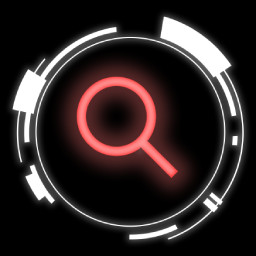
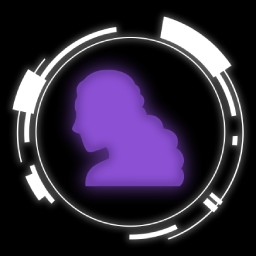
feat: like, a lot of rebranding effort

Changed region(s): [[0.25, 0.25, 0.75, 0.7812]]

diff --git a/docs/setup/investigations_setup.md b/docs/setup/investigations_setup.md
@@ -1,5 +1,5 @@
 ---
-description: How to set up investigations.
+description: How to set up investigations with PYTHIA.
 ---
 
 # Investigations Setup
@@ -9,19 +9,20 @@ description: How to set up investigations.
 
 ## Setting Up the Config
 
-To use the investigations feature, you need to establish a Truth Bullets (or whatever your RP calls them) channel, so that the bot knows where to send publicly discoverable Truth Bullets. To do that, select the `/config bullet-channel` command, _use the channel option_, and select the channel you want Truth Bullets to go in.
+To use the investigations feature, you need to establish a Truth Bullets (or whatever your RP calls them) channel, so that the bot knows where to send publicly discoverable Truth Bullets. To do that, select the `/bullet-config channel` command, _use the channel option_, and select the channel you want Truth Bullets to go in.
 
 And you're technically ready! However, there are other commands worth noting:
 
-* `/config best-truth-bullet-finder` can be used to set roles given to the people who find the most Truth Bullets. If this is not given, no role will be handed out to those who find the most, though as of right now, a message for who sent the most is still sent.
-* `/config investigation-mode` allows you to change how Truth Bullets can be discovered. By default, they can be discovered through sending messages and through `/investigate`, but you can change this so that only `/investigate` works.
-* `/config toggle` turns on or off triggering Truth Bullets. This'll be important later.
+* `/bullet-config best-finder` can be used to set a roll given to the people who find the most Truth Bullets. If this is not given, no role will be handed out to those who find the most, though as of right now, a message for who sent the most is still sent.
+* `/bullet-config mode` allows you to change how Truth Bullets can be discovered. By default, they can be discovered through sending messages and through `/investigate`, but you can change this so that only `/investigate` works.
+* `/bullet-config names` allows you to change how Truth Bullets (and the Best Finder) are named in *public-facing* messages. 
+* `/bullet-config toggle` turns on or off triggering Truth Bullets. This'll be important later.
 
 ## Setting Up Truth Bullets
 
 ### Adding Truth Bullets
 
-Let's get started by adding Truth Bullets - use `/add-bullets` and select a channel to, well, add a Truth Bullet to a specific channel. This'll pop out a little button that can be used _at any time to add Truth Bullets to that channel._
+Let's get started by adding Truth Bullets - use `/bullet-manage add` and select a channel to, well, add a Truth Bullet to a specific channel. This'll pop out a little button that can be used _at any time to add Truth Bullets to that channel._
 
 <figure markdown>
   ![An example of said button.](add_bullets_button.png){ loading="lazy" }
@@ -51,25 +52,25 @@ Truth Bullets are unique _by their trigger by channel_, so while *multiple* chan
 
 ### Seeing Current Truth Bullets
 
-After adding Truth Bullets, you probably want to get a good overview of them. Let's use `/list-bullets` to list out the ones we've made so far:
+After adding Truth Bullets, you probably want to get a good overview of them. Let's use `/bullet-manage list` to list out the ones we've made so far:
 
 <figure markdown>
-  ![An example of /list-bullets.](list_bullets.png){ loading="lazy" }
+  ![An example of /bullet-manage list.](list_bullets.png){ loading="lazy" }
 </figure>
 
 As you can see, it already has a Truth Bullet in it. This command will list out Truth Bullets for every single channel and if they were found - this is a useful reference to have as you make Truth Bullets or even watch over an investigation (Truth Bullets that have been found will be marked as such).
 
-To see a specific Truth Bullet's information, you can use `/bullet-info` with the channel and trigger of the Truth Bullet you want to see:
+To see a specific Truth Bullet's information, you can use `/bullet-manage info` with the channel and trigger of the Truth Bullet you want to see:
 
 <figure markdown>
-  ![An example of /bullet-info.](bullet_info.png){ loading="lazy" }
+  ![An example of /bullet-manage info.](bullet_info.png){ loading="lazy" }
 </figure>
 
 As you can see, it's pretty basic, but it does list everything you would need to know. Most of these fields are empty (as expected), but we can always reference these later.
 
 ### Editing and Removing Truth Bullets
 
-Editing a Truth Bullet is as simple as using `/edit-bullet` and specifying the channel and trigger of the Truth Bullet you wish to edit. A little pop-up will appear:
+Editing a Truth Bullet is as simple as using `/bullet-manage edit` and specifying the channel and trigger of the Truth Bullet you wish to edit. A little pop-up will appear:
 
 <figure markdown>
   ![The pop-up that appears while editing Truth Bullets.](edit_bullet_modal.png){ loading="lazy" }
@@ -77,24 +78,24 @@ Editing a Truth Bullet is as simple as using `/edit-bullet` and specifying the c
 
 As you can see, it already has the old trigger and description in it - you'll be able to edit them from there (though you may want to temporarily move the contents to a proper text editor to edit things better). When you press submit, the Truth Bullet will be edited with the new trigger and description.
 
-To remove a Truth Bullet, it's as simple as using `/remove-bullet` with the channel and trigger of the Truth Bullet you want to delete:
+To remove a Truth Bullet, it's as simple as using `/bullet-manage remove` with the channel and trigger of the Truth Bullet you want to delete:
 
 <figure markdown>
   ![An example of removing a Truth Bullet.](remove_bullet.png){ loading="lazy" }
 </figure>
 
-Removing _all_ Truth Bullets is as simple as running `/clear-bullets`. _This action is irreversible!_
+Removing _all_ Truth Bullets is as simple as running `/bullet-manage clear`. _This action is irreversible!_
 
 ### Other Commands
 
-* To add an alias (an alternative trigger to trigger the same Truth Bullet), simply use the `/add-alias` command with the channel, trigger of the Truth Bullet, and the alias you wish to add to the Bullet. As you can imagine, `/remove-alias` follows a similar process.
-* `/override-bullet` and `/unfind-bullet` are more useful _during_ investigations, as you can imagine, but they simply allow you to either re-define who found a Truth Bullet or un-discover it so its trigger can be triggered once again.
+* To add an alias (an alternative trigger to trigger the same Truth Bullet), simply use the `/bullet-manage add-alias` command with the channel, trigger of the Truth Bullet, and the alias you wish to add to the Bullet. As you can imagine, `/bullet-manage remove-alias` follows a similar process.
+* `/bullet-manage override` and `/bullet-manage unfind` are more useful _during_ investigations, as you can imagine, but they simply allow you to either re-define who found a Truth Bullet or un-discover it so its trigger can be triggered once again.
 * `/help` is your friend! Use it to find more commands that could be useful to you!
 
 ## Starting an Investigation
 
-To start off an investigation with all your Truth Bullets, simply run `/config toggle` and enable triggering Truth Bullets! Your players will now be able to discover any Truth Bullets you laid out for them, as seen in the [investigations usage guide](investigations.md). It's suggested that you do this once you get in your first BDA message with the initial hints in, though the bot gives you freedom on how to really do that.
+To start off an investigation with all your Truth Bullets, simply run `/bullet-config toggle` and enable triggering Truth Bullets! Your players will now be able to discover any Truth Bullets you laid out for them, as seen in the [investigations usage guide](investigations.md). It's suggested that you do this once you get in your first BDA message with the initial hints in, though the bot gives you freedom on how to really do that.
 
-An investigation ends when _all Truth Bullets currently defined has been found_. Till then, keep an eye on your player's progress through `/list-bullets` and give hints as needed. Once all have been found, _the bot will automatically disable triggering bullets._ You'll need to turn on `/config toggle` again if you add a Truth Bullet for people to find them.
+An investigation ends when _all Truth Bullets currently defined has been found_. Till then, keep an eye on your player's progress through `/bullet-manage list` and give hints as needed. Once all have been found, _the bot will automatically disable triggering bullets._ You'll need to turn on `/bullet-config toggle` again if you add a Truth Bullet for people to find them.
 
-_**Truth Bullets are not deleted after an investigation. You MUST do this manually by using `/clear-bullets`!**_  Don't forget to do this - not doing so turns your Truth Bullets into a confusing mess of found and unfound Bullets. If you don't know if you've done it, use `/list-bullets` to verify it.
+_**Truth Bullets are not deleted after an investigation. You MUST do this manually by using `/bullet-manage clear`!**_  Don't forget to do this - not doing so turns your Truth Bullets into a confusing mess of found and unfound Bullets. If you don't know if you've done it, use `/bullet-manage list` to verify it.

diff --git a/docs/index.md b/docs/index.md
@@ -1,6 +1,8 @@
 ---
 title: PYTHIA
 description: A bot meant to assist with Danganronpa/Killing Game RPs.
+hide:
+  - footer
 ---
 
 # PYTHIA
@@ -15,47 +17,29 @@ description: A bot meant to assist with Danganronpa/Killing Game RPs.
   [![Donate on Ko-Fi](https://img.shields.io/badge/Donate_on_Ko--Fi-Link-DEDEDE?style=for-the-badge&logo=ko-fi&logoColor=DEDEDE)](https://ko-fi.com/astreatss)
 </p>
 
-PYTHIA is a Discord bot meant to assist with Danganronpa/Killing Game RPs. Currently, it automates parts of investigating that would otherwise take time and energy to make it easier to run RPs. More specifically, it allows for staff to define 'key phrases'/triggers that players can later activate through the bot.
-
-The bot is planned to increase in scope, adding featues like a gacha system in the future.
+PYTHIA is a Discord bot meant to assist with various parts of running Danganronpa/Killing Game RPs. It plans to eventually serve as a replacement to Ultimate Assistant.
 
 ## Investigations
 
-Moderators can:
-
-- Set up Truth Bullets for users to find in specific channels:
-<figure markdown>
-  ![The pop-up that appears while adding Truth Bullets.](add_bullet_modal.png)
-</figure>
-
-- Manage Truth Bullets, including editing and removing them:
-=== "Listing Truth Bullets"
-    <figure markdown>
-      ![An example of /list-bullets.](list_bullets.png)
-    </figure>
-
-=== "Editing Truth Bullets"
-    <figure markdown>
-      ![The pop-up that appears while editing Truth Bullets.](edit_bullet_modal.png)
-    </figure>
-
-=== "Removing Truth Bullets"
-    <figure markdown>
-      ![An example of removing a Truth Bullet.](remove_bullet.png)
-    </figure>
-
-- Adjust other settings, like who can trigger Truth Bullets and if a role is awarded to the person who finds the most Truth Bullets:
-<figure markdown>
-  ![An empty server /config info.](guild_config.png)
-</figure>
-
-Then, when Truth Bullet discovery is enabled, users can trigger a Truth Bullet by saying a specific phrase (a "trigger") in a channel:
+PYTHIA supports a unique system for discovering Truth Bullets, where by saying a specific phrase/trigger in a channel, a Truth Bullet gets triggered.
 <figure markdown>
   ![Example of a message triggering a Truth Bullet.](trigger_example_clean.png)
   <figcaption>Notice how the trigger is "oven", as represented by the red underline.</figcaption>
 </figure>
 
-And the bot, as seen above, will reply with the Truth Bullet in the same channel and (not shown) in a separate channel of your choosing (to show them all in one place).
+This servers to automate the usual flow for Truth Bullets in many KGs. 
+
+Guides:
+- [Investigations as a User](usage/investigations.md)
+- [Setting Up Investigations](setup/investigations_setup.md)
+
+## Gacha
+
+soon:tm:
+
+Guides:
+- [Gacha as a User](usage/gacha.md)
+- [Setting Up Gacha](setup/gacha_setup.md)
 
 ## More Information
 

diff --git a/docs/usage/investigations.md b/docs/usage/investigations.md
@@ -1,5 +1,5 @@
 ---
-description: How to use the bot as a user of it.
+description: How to use investigations with PYTHIA as a user.
 ---
 
 # Investigations 
@@ -10,7 +10,7 @@ description: How to use the bot as a user of it.
     This guide will mention standard Danganronpa/Killing Game topics, like gore and blood. These are very frequent in the series, and as such, are frequent in roleplays based on it. If you're not comfortable with these topics, it's best to avoid roleplays based on Danganronpa.
 
 
-You're likely here because a server you're in is using PYTHIA, and you're a bit confused (or just curious) on how to use it for an investigation. Basically, the bot essentially automates what a "traditional" investigation done by the staff of a server would do, but this'll guide you on what that means.
+You're likely here because a server you're in is using PYTHIA and is using it to power investigations. Essentially, the bot (mostly) automates what a "traditional" investigation done by the staff of a server would do, but this'll guide you on what that means.
 
 Typically, the mods will give you some sort of starting message for an investigation. Let's look at a real world example:
 

diff --git a/docs/setup/index.md b/docs/setup/index.md
@@ -1,3 +1,7 @@
+---
+description: A handful of guides to teach you how to set up the features of PYTHIA.
+---
+
 # Server Setup Guides
 
 Hello! Below are a handful of guides to teach you how to set up the features of PYTHIA. You should read the basic setup guide first, but from there, feel free to look at the features you want in your RP!
@@ -5,3 +9,4 @@ Hello! Below are a handful of guides to teach you how to set up the features of 
 ## Guides
 - [Basic Setup](basic_setup.md)
 - [Investigations Setup](investigations_setup.md)
+- [Gacha Setup](gacha_setup.md)

diff --git a/docs/usage/index.md b/docs/usage/index.md
@@ -1,6 +1,11 @@
+---
+description: A handful of guides to teach you how to use features of PYTHIA.
+---
+
 # Using the Bot
 
 Hello! Below are a handful of guides to teach you how to use features of PYTHIA. It's suggested that both players and staff of an RP that wants to use PYTHIA should read over the features the RP will use.
 
 ## Guides
 - [Investigations](investigations.md)
+- [Gacha](gacha.md)

diff --git a/docs/setup/basic_setup.md b/docs/setup/basic_setup.md
@@ -1,5 +1,5 @@
 ---
-description: How to  set up the bot for your roleplay server.
+description: How to set up PYTHIA for your roleplay server.
 ---
 
 # Basic Setup

diff --git a/docs/usage/gacha.md b/docs/usage/gacha.md
@@ -1,0 +1,7 @@
+---
+description: How to use the gacha system with PYTHIA as a user.
+---
+
+# Gacha
+
+soon:tm:

diff --git a/docs/setup/gacha_setup.md b/docs/setup/gacha_setup.md
@@ -1,0 +1,7 @@
+---
+description: How to set up the gacha system with PYTHIA.
+---
+
+# Gacha Setup
+
+soon:tm:

diff --git a/docs/updates/index.md b/docs/updates/index.md
@@ -1,5 +1,6 @@
 ---
 title: Posts
+description: Update posts for PYTHIA.
 ---
 
 # Updates
